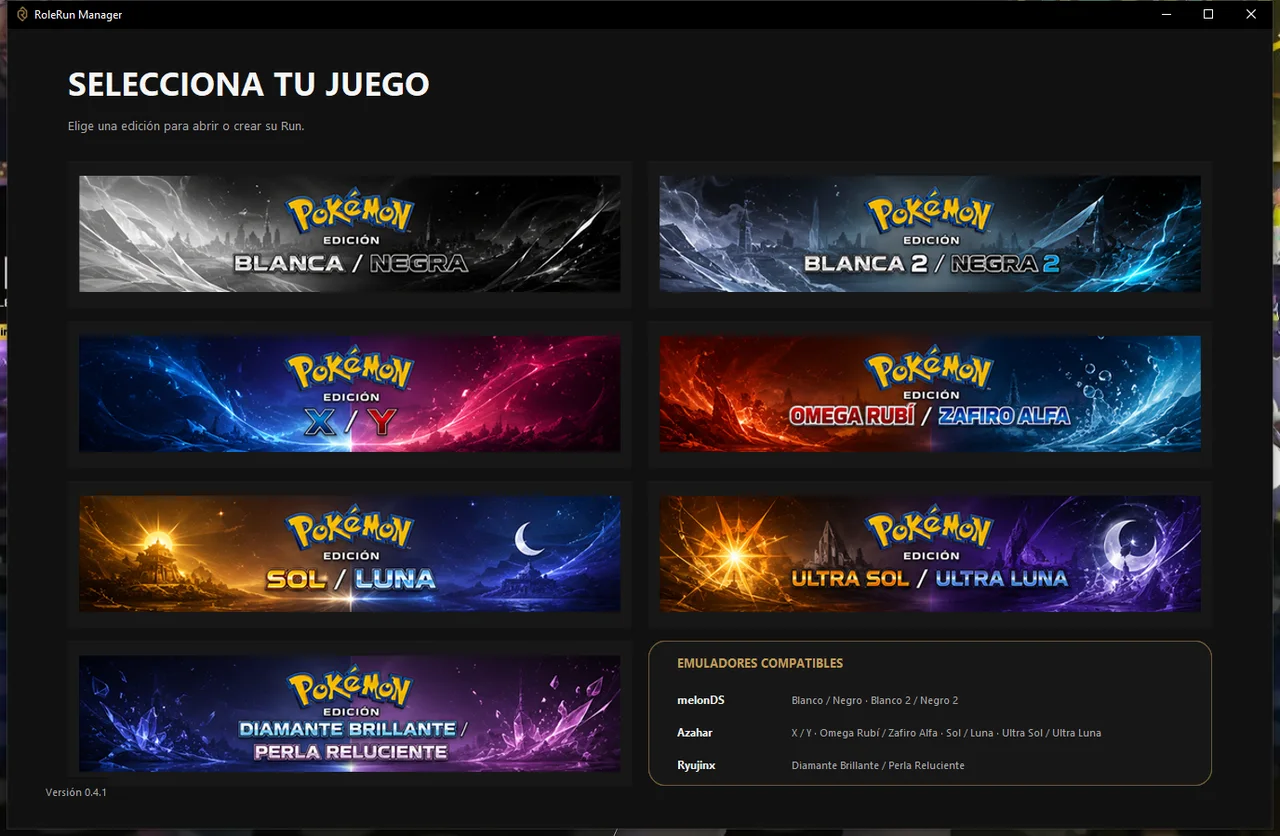
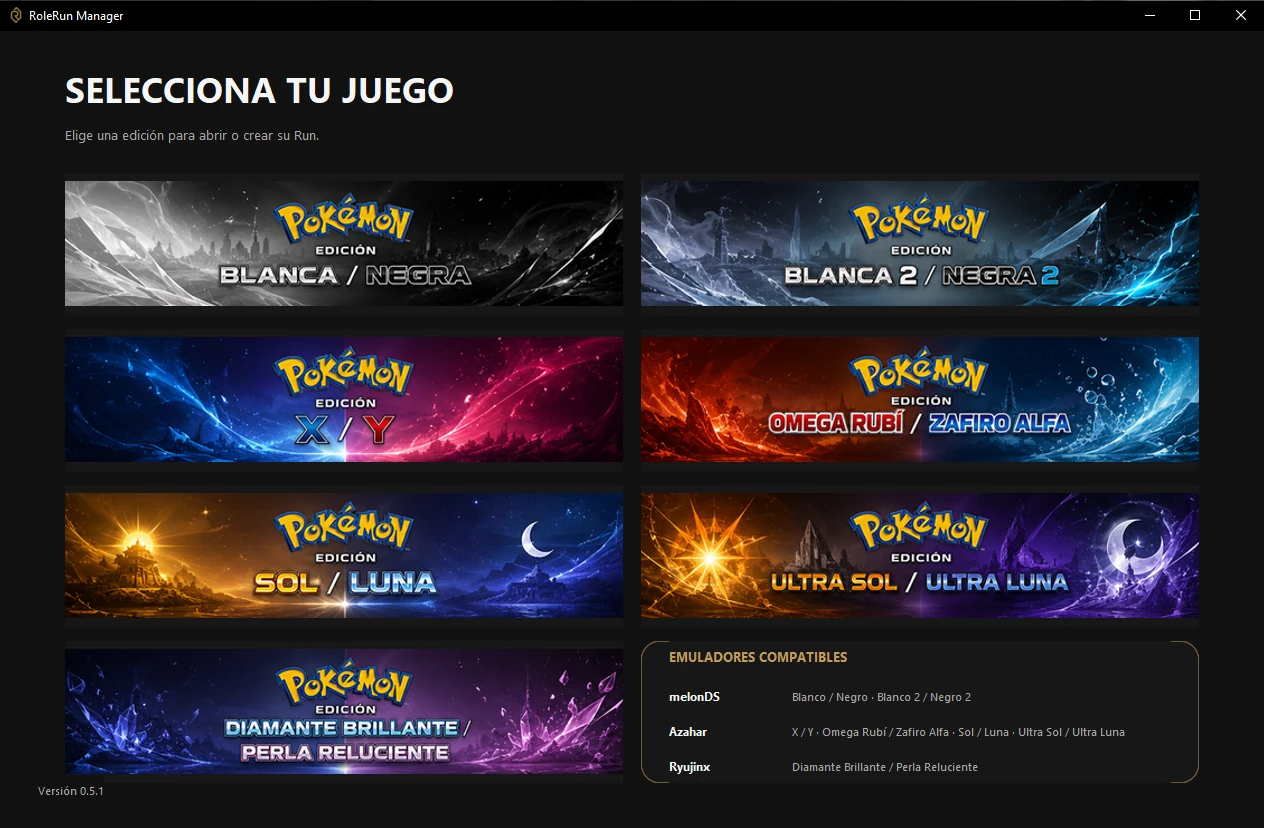
Revisión de la web: nuevo lema, tres problemas y regla real de vidas
- Portada: "El reto Pokémon más extremo" y "El randomizer balanceado".
- La idea: tres problemas de los Randomlockes (azar, paradas y stall).
- Los seis roles justo después de la solución; "Cómo se juega" debajo.
- Vidas: se pierden en cualquier combate; solo se ganan superando un
  combate de seis sin bajas. Drafteo: entre tres y cinco opciones.
- El programa: captura nueva (v0.5.1) recortada a la ventana, sin
  inclinación y a todo lo ancho; "Recuerda-movimientos" en lugar de
  "Reportar un fallo".
- Pie: proyecto de Timper para fans.
- Estilo, código e imagen con marca de versión para que ningún navegador
  mezcle lo nuevo con lo guardado.

diff --git a/index.html b/index.html
@@ -4,16 +4,16 @@
   <meta charset="utf-8">
   <meta name="viewport" content="width=device-width, initial-scale=1">
   <title>Pokémon RoleRun</title>
-  <meta name="description" content="RoleRun: el Nuzlocke con roles. Menos paradas, menos azar, más tensión. Aprende el formato y descarga RoleRun Manager gratis.">
+  <meta name="description" content="RoleRun: el randomizer balanceado. Menos Pokémon absurdos, más estrategia. Aprende el formato y descarga RoleRun Manager gratis.">
   <meta name="theme-color" content="#0e0c09">
   <meta property="og:title" content="Pokémon RoleRun">
-  <meta property="og:description" content="El Nuzlocke con roles: menos paradas, menos azar, más tensión.">
+  <meta property="og:description" content="El randomizer balanceado: menos Pokémon absurdos, más estrategia.">
   <meta property="og:image" content="assets/logo.png">
   <link rel="icon" type="image/png" href="assets/favicon.png">
   <link rel="preconnect" href="https://fonts.googleapis.com">
   <link rel="preconnect" href="https://fonts.gstatic.com" crossorigin>
   <link href="https://fonts.googleapis.com/css2?family=Outfit:wght@500;700;800;900&family=Inter:wght@400;500;600&display=swap" rel="stylesheet">
-  <link rel="stylesheet" href="styles.css">
+  <link rel="stylesheet" href="styles.css?v=2026-09-26">
 </head>
 <body>
   <div class="fondo" aria-hidden="true">
@@ -43,31 +43,36 @@
         <span class="halo"></span>
         <img src="assets/logo.png" alt="" width="220" height="220">
       </div>
-      <p class="antetitulo">Un formato de reto Pokémon</p>
+      <p class="antetitulo">El reto Pokémon más extremo</p>
       <h1>Pokémon <em>RoleRun</em></h1>
-      <p class="lema">El Nuzlocke con roles: <strong>menos paradas, menos azar, más tensión.</strong></p>
+      <p class="lema">El randomizer balanceado: <strong>menos Pokémon absurdos, más estrategia.</strong></p>
       <div class="acciones">
         <a class="boton boton-oro" href="#descarga">Descargar RoleRun Manager</a>
         <a class="boton boton-borde" href="#idea">Aprender el formato</a>
       </div>
-      <p class="nota-portada">Gratis · Windows 10 y 11 · No hace falta instalar nada más</p>
+      <p class="nota-portada">Gratis · Windows 10 y 11</p>
       <a class="bajar" href="#idea" aria-label="Seguir leyendo"><span></span></a>
     </section>
 
     <!-- LA IDEA -->
     <section id="idea" class="seccion">
       <p class="etiqueta">La idea</p>
-      <h2>Dos cosas que fallan en los Nuzlockes clásicos</h2>
+      <h2>Tres cosas que fallan en los Randomlockes clásicos</h2>
       <div class="problemas">
         <article class="tarjeta problema aparece">
           <span class="problema-num">1</span>
+          <h3>Demasiado azar</h3>
+          <p>A veces te toca un Pokémon con ataques tan fuertes que se vuelve imparable, y el reto deja de dar miedo.</p>
+        </article>
+        <article class="tarjeta problema aparece">
+          <span class="problema-num">2</span>
           <h3>Demasiadas paradas</h3>
           <p>Volver al Centro Pokémon una y otra vez para curar. Mucho ir y venir, poco avanzar.</p>
         </article>
         <article class="tarjeta problema aparece">
-          <span class="problema-num">2</span>
-          <h3>Demasiado azar</h3>
-          <p>A veces te toca un Pokémon con ataques tan fuertes que se vuelve imparable, y el reto deja de dar miedo.</p>
+          <span class="problema-num">3</span>
+          <h3>Demasiado stall</h3>
+          <p>¿Cuántas veces han salido MTs como Masa Cósmica o Recuperación que eternizan las partidas y las vuelven aburridas?</p>
         </article>
       </div>
       <div class="solucion aparece">
@@ -87,25 +92,6 @@
         </div>
       </div>
 
-      <h3 class="subtitulo">Lo de siempre sigue igual</h3>
-      <div class="bases">
-        <div class="base aparece"><span class="base-icono">①</span><p><strong>Una captura por ruta.</strong> Como en cualquier Nuzlocke.</p></div>
-        <div class="base aparece"><span class="base-icono">✝</span><p><strong>Debilitado es para siempre.</strong> Se va al Cementerio y no vuelve en toda la Run.</p></div>
-        <div class="base aparece"><span class="base-icono">—</span><p><strong>Sin rol, no combate.</strong> Un Pokémon puede estar en el equipo mientras lo preparas, pero no lucha hasta tener rol.</p></div>
-      </div>
-    </section>
-
-    <!-- EL CICLO -->
-    <section class="seccion seccion-estrecha">
-      <p class="etiqueta">Cómo se juega</p>
-      <h2>El ciclo de una Run</h2>
-      <ol class="ciclo">
-        <li class="aparece"><span>1</span><strong>Captura</strong><small>Construye tu equipo</small></li>
-        <li class="aparece"><span>2</span><strong>Asigna rol</strong><small>Especializa a cada uno</small></li>
-        <li class="aparece"><span>3</span><strong>Combate</strong><small>Sobrevive</small></li>
-        <li class="aparece"><span>4</span><strong>Draftea</strong><small>Gana movimientos</small></li>
-        <li class="aparece"><span>5</span><strong>Reorganiza</strong><small>Adáptate y sigue</small></li>
-      </ol>
     </section>
 
     <!-- ROLES -->
@@ -121,11 +107,30 @@
       </div>
     </section>
 
+    <!-- EL CICLO -->
+    <section class="seccion seccion-estrecha">
+      <p class="etiqueta">Cómo se juega</p>
+      <h2>El ciclo de una Run</h2>
+      <ol class="ciclo">
+        <li class="aparece"><span>1</span><strong>Captura</strong><small>Construye tu equipo</small></li>
+        <li class="aparece"><span>2</span><strong>Asigna rol</strong><small>Especializa a cada uno</small></li>
+        <li class="aparece"><span>3</span><strong>Combate</strong><small>Sobrevive</small></li>
+        <li class="aparece"><span>4</span><strong>Draftea</strong><small>Gana movimientos</small></li>
+        <li class="aparece"><span>5</span><strong>Reorganiza</strong><small>Adáptate y sigue</small></li>
+      </ol>
+      <h3 class="subtitulo">Lo de siempre sigue igual</h3>
+      <div class="bases">
+        <div class="base aparece"><span class="base-icono">①</span><p><strong>Una captura por ruta.</strong> Como en cualquier Nuzlocke.</p></div>
+        <div class="base aparece"><span class="base-icono">✝</span><p><strong>Debilitado es para siempre.</strong> Se va al Cementerio y no vuelve en toda la Run.</p></div>
+        <div class="base aparece"><span class="base-icono">—</span><p><strong>Sin rol, no combate.</strong> Un Pokémon puede estar en el equipo mientras lo preparas, pero no lucha hasta tener rol.</p></div>
+      </div>
+    </section>
+
     <!-- VIDAS -->
     <section id="vidas" class="seccion">
       <p class="etiqueta">Vidas, curaciones y drafteos</p>
       <h2>Empiezas con 10 vidas</h2>
-      <p class="intro">Lo que mueve las vidas no es cualquier combate, sino un <strong>combate de seis Pokémon</strong>: un líder de gimnasio, el Alto Mando o un rival importante.</p>
+      <p class="intro">Puedes perder vidas en <strong>cualquier combate</strong>, pero si superas un <strong>combate de seis Pokémon</strong> sin perder vidas, ganas 1 vida más.</p>
 
       <div class="vidas-juego aparece">
         <div class="corazones" id="corazones" aria-live="polite"></div>
@@ -149,7 +154,7 @@
         <article class="tarjeta regla aparece" style="--c: var(--rojo)">
           <span class="regla-signo">−1</span>
           <h3>Una vida por cada baja</h3>
-          <p>Pierdes Pokémon en ese combate: <strong>restas una vida por cada uno</strong> perdido en él. Hasta −6 si cae el equipo entero.</p>
+          <p>Cada Pokémon que pierdas, <strong>en cualquier combate</strong>, te resta una vida. Hasta −6 si cae el equipo entero.</p>
         </article>
         <article class="tarjeta regla aparece" style="--c: var(--oro)">
           <span class="regla-signo">✦</span>
@@ -159,7 +164,7 @@
         <article class="tarjeta regla aparece" style="--c: var(--support)">
           <span class="regla-signo">✚</span>
           <h3>Una curación por líder</h3>
-          <p>Cada vez que <strong>entras</strong> en combate contra un líder de gimnasio, ganas una curación. Adiós a las idas y venidas al Centro Pokémon.</p>
+          <p>Cada vez que <strong>entras</strong> en combate contra un líder de gimnasio, ganas una curación.</p>
         </article>
       </div>
 
@@ -173,10 +178,10 @@
     <section id="drafteos" class="seccion seccion-estrecha">
       <p class="etiqueta">Drafteos</p>
       <h2>¿Qué es un drafteo?</h2>
-      <p class="intro">Es la recompensa de los combates importantes: enseñar a un Pokémon un movimiento <strong>al azar, pero compatible con su rol</strong>.</p>
+      <p class="intro">Es la recompensa de los combates importantes (de 6 Pokémon): enseñar a un Pokémon un movimiento <strong>al azar, pero compatible con su rol</strong>.</p>
       <ol class="pasos">
         <li class="aparece"><strong>Eliges el rol y el Pokémon.</strong> Solo puede intentarlo un Pokémon que ya tenga rol.</li>
-        <li class="aparece"><strong>Salen cuatro movimientos</strong> del conjunto de ese rol. Si no te convencen, repetir la tirada no cuesta nada.</li>
+        <li class="aparece"><strong>Salen entre tres y cinco movimientos</strong> del conjunto de ese rol, según cuál sea. Si ha salido alguno que ya tienes, puedes generar un movimiento nuevo.</li>
         <li class="aparece"><strong>Te quedas uno:</strong> lo enseñas ahora o lo guardas para más tarde. Cualquiera de las dos cosas gasta el drafteo.</li>
       </ol>
     </section>
@@ -219,15 +224,15 @@
       <p class="intro">Se abre junto a tu emulador, lee la partida en directo y se encarga de las cuentas.</p>
       <div class="manager">
         <figure class="captura aparece">
-          <img src="assets/captura-juegos.webp" alt="Pantalla de RoleRun Manager para elegir juego" width="1280" height="836" loading="lazy">
+          <img src="assets/captura-juegos.webp?v=2026-09-26" alt="Pantalla de RoleRun Manager para elegir juego" width="1264" height="828" loading="lazy">
         </figure>
         <ul class="funciones">
           <li class="aparece"><span>◉</span><div><strong>Lee tu partida en directo</strong>Equipo, PS, cajas del PC y medallas, sin cerrar el juego.</div></li>
           <li class="aparece"><span>♥</span><div><strong>Cuenta vidas y drafteos solo</strong>Al ganar un combate de seis Pokémon, suma lo que toca.</div></li>
           <li class="aparece"><span>▲</span><div><strong>Vigila los roles</strong>Marca en rojo los movimientos que un rol no admite y te ofrece MT compatibles.</div></li>
-          <li class="aparece"><span>✦</span><div><strong>Drafteos en un clic</strong>Tira, repite gratis y enseña el movimiento desde el propio programa.</div></li>
+          <li class="aparece"><span>✦</span><div><strong>Drafteos en un clic</strong>Tira los drafteos y enseña el movimiento desde el propio programa.</div></li>
           <li class="aparece"><span>▭</span><div><strong>Barra flotante</strong>Tu equipo y tus vidas encima del juego, con atajos de teclado y mando.</div></li>
-          <li class="aparece"><span>⚑</span><div><strong>Reportar un fallo</strong>Un botón manda el problema con capturas, directo al creador.</div></li>
+          <li class="aparece"><span>↺</span><div><strong>Recuerda-movimientos</strong>Guarda lo que cada Pokémon ha aprendido por nivel y te deja volver a enseñárselo, si encaja con su rol actual.</div></li>
         </ul>
       </div>
 
@@ -286,10 +291,10 @@
 
   <footer class="pie">
     <img src="assets/logo.png" alt="" width="40" height="40">
-    <p>Pokémon RoleRun es un proyecto de fans, gratuito y sin ánimo de lucro.</p>
+    <p>Pokémon RoleRun es un proyecto de Timper para fans, gratuito y sin ánimo de lucro.</p>
     <p class="pie-legal">Pokémon y sus nombres son marcas de Nintendo, Game Freak y The Pokémon Company. Este proyecto no está afiliado a ellas.</p>
   </footer>
 
-  <script src="app.js"></script>
+  <script src="app.js?v=2026-09-26"></script>
 </body>
 </html>

diff --git a/styles.css b/styles.css
@@ -150,7 +150,7 @@ strong { color: #fff; font-weight: 600; }
 .aparece.visible { opacity: 1; transform: none; }
 
 /* ---------- La idea ---------- */
-.problemas { display: grid; grid-template-columns: repeat(2, 1fr); gap: 20px; margin-top: 34px; }
+.problemas { display: grid; grid-template-columns: repeat(3, 1fr); gap: 20px; margin-top: 34px; }
 .problema { position: relative; overflow: hidden; }
 .problema-num {
   position: absolute; right: 18px; top: -14px; font: 900 7rem "Outfit", sans-serif;
@@ -318,15 +318,14 @@ td.num { font-weight: 600; }
 .aviso-pequeno { margin-top: 18px; color: var(--suave); font-size: 0.92rem; }
 
 /* ---------- El programa ---------- */
-.manager { display: grid; grid-template-columns: 1.15fr 1fr; gap: 34px; align-items: center; }
+.manager { display: grid; grid-template-columns: 1fr; gap: 38px; }
 .captura {
-  margin: 0; border-radius: 22px; overflow: hidden; border: 1px solid var(--borde);
+  margin: 0 auto; width: 100%; max-width: 1060px; border-radius: 16px; overflow: hidden;
+  border: 1px solid var(--borde);
   box-shadow: 0 40px 80px -40px rgba(0, 0, 0, 0.9), 0 0 0 8px rgba(194, 156, 88, 0.06);
-  transform: perspective(1400px) rotateY(6deg) rotateX(2deg);
-  transition: transform .6s ease;
 }
-.captura:hover { transform: none; }
-.funciones { list-style: none; margin: 0; padding: 0; display: grid; gap: 14px; }
+.captura img { display: block; width: 100%; height: auto; }
+.funciones { list-style: none; margin: 0; padding: 0; display: grid; grid-template-columns: repeat(3, 1fr); gap: 22px 28px; }
 .funciones li { display: flex; gap: 14px; align-items: flex-start; }
 .funciones span {
   flex: none; width: 42px; height: 42px; display: grid; place-items: center;
@@ -385,8 +384,7 @@ details p { margin: 0; padding: 0 20px 18px; color: var(--suave); }
 @media (max-width: 900px) {
   .roles { grid-template-columns: repeat(2, 1fr); }
   .rol[aria-expanded="true"] { grid-column: span 2; }
-  .manager { grid-template-columns: 1fr; }
-  .captura { transform: none; }
+  .funciones { grid-template-columns: repeat(2, 1fr); }
   .juegos, .instalar { grid-template-columns: 1fr; }
   .bases { grid-template-columns: 1fr; }
 }
@@ -402,7 +400,7 @@ details p { margin: 0; padding: 0 20px 18px; color: var(--suave); }
   .menu-boton[aria-expanded="true"] span:nth-child(1) { transform: translateY(7px) rotate(45deg); }
   .menu-boton[aria-expanded="true"] span:nth-child(2) { opacity: 0; }
   .menu-boton[aria-expanded="true"] span:nth-child(3) { transform: translateY(-7px) rotate(-45deg); }
-  .problemas, .solucion, .reglas-vidas, .final-run, .puntos { grid-template-columns: 1fr; }
+  .problemas, .solucion, .reglas-vidas, .final-run, .puntos, .funciones { grid-template-columns: 1fr; }
   .roles { grid-template-columns: 1fr; }
   .rol[aria-expanded="true"] { grid-column: span 1; }
   .rol-detalle { grid-template-columns: 1fr; }

diff --git a/app.js b/app.js
@@ -109,7 +109,7 @@ function combate(bajas) {
   } else {
     vidas = Math.max(0, vidas - bajas);
     mensaje.textContent = vidas === 0
-      ? "0 vidas: la Run está perdida. Esos Pokémon se van al Cementerio para siempre."
+      ? "0 vidas: la Run está perdida."
       : `−${bajas} ${bajas === 1 ? "vida" : "vidas"}. Pero superaste el combate: te llevas un drafteo igualmente.`;
     pintarCorazones("baja");
   }
